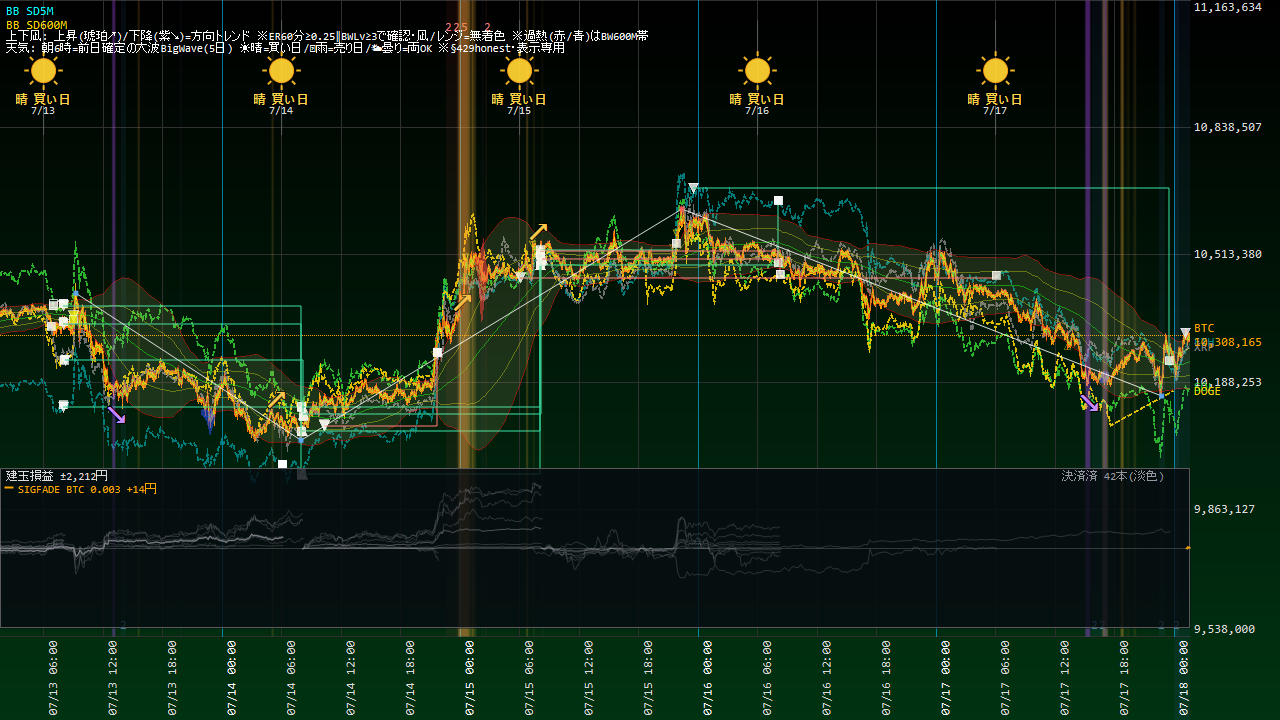
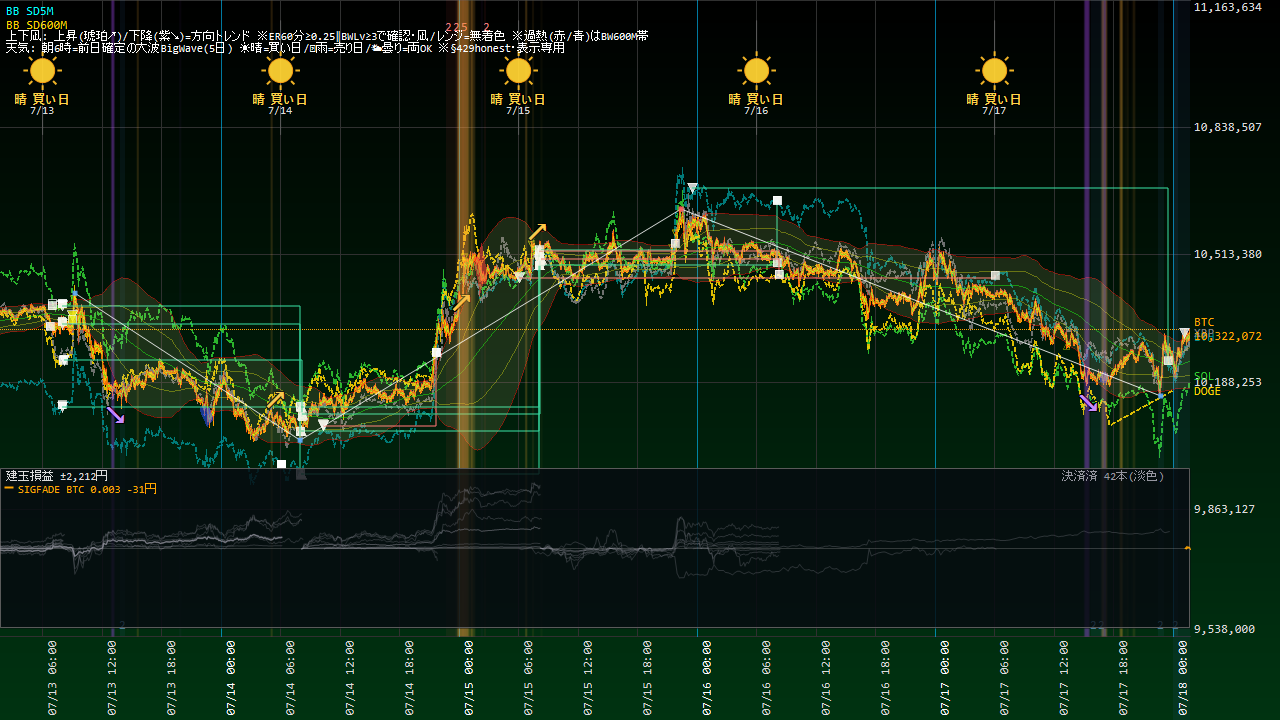
Coin100S 運用状況更新 07-18 01:47

diff --git a/coin100s-795hc4jfv8/index.html b/coin100s-795hc4jfv8/index.html
@@ -14,16 +14,16 @@ a{color:#60a5fa;text-decoration:none} a:hover{text-decoration:underline}
 .meta{color:#94a3b8;font-size:13px}</style>
 <script>setTimeout(function(){location.replace(location.pathname+"?t="+Date.now());},300000);</script></head><body>
 <h1>Coin100S ダッシュボード</h1>
-<p class="meta">スナップショット: 2026-07-18 01:40:40(自動リロード・最新化)</p>
+<p class="meta">スナップショット: 2026-07-18 01:46:40(自動リロード・最新化)</p>
 <div class="cards">
 <div class="card">建玉数<div class="v">1</div></div>
 <div class="card">本日損益<div class="v pos">+475円</div></div>
-<div class="card">評価損益<div class="v pos">+31円</div></div>
+<div class="card">評価損益<div class="v neg">-20円</div></div>
 </div>
 <h2>現在の建玉</h2>
-<table><tr><th>銘柄</th><th>側</th><th>数量</th><th>建値</th><th>含損益</th><th>レッグ</th></tr><tr><td>BTC_JPY</td><td>SELL</td><td>0.003</td><td>@10,312,904</td><td>+35円</td><td>SIGFADE_BTC</td></tr></table>
+<table><tr><th>銘柄</th><th>側</th><th>数量</th><th>建値</th><th>含損益</th><th>レッグ</th></tr><tr><td>BTC_JPY</td><td>SELL</td><td>0.003</td><td>@10,312,904</td><td>-17円</td><td>SIGFADE_BTC</td></tr></table>
 <p><a href="status.html"><b>▶ 運用状況の詳細(チャート・本日の取引・レジーム)</b></a></p>
 <h2>日報一覧</h2>
 <table><tr><th>取引日</th><th>実現損益</th><th>総括</th></tr><tr><td><a href='reports/20260716_Coin100S日報.html'>2026-07-16</a></td><td class="pos">+0円</td><td class='meta'>実取引: 新規0件/決済5件、実現損益 +0円。⚠警告/エラー 7件（要確認）。</td></tr><tr><td><a href='reports/20260715_Coin100S日報.html'>2026-07-15</a></td><td class="pos">+0円</td><td class='meta'>実取引: 新規6件/決済5件、実現損益 +0円。シグナル却下6件（最多: BW10M3_5M／トレンド方向ゲート(N分傾き上と不一致=逆張り方向のfade禁止)）。⚠警告/エラー 7件（要確認）。</td></tr><tr><td><a href='reports/20260714_Coin100S日報.html'>2026-07-14</a></td><td class="pos">+0円</td><td class='meta'>実取引: 新規6件/決済18件、実現損益 +0円。シグナル却下5件（最多: BW10M3_5M／トレンド方向ゲート(N分傾き上と不一致=逆張り方向のfade禁止)）。⚠警告/エラー 9件（要確認）。</td></tr><tr><td><a href='reports/20260713_Coin100S日報.html'>2026-07-13</a></td><td class="pos">+0円</td><td class='meta'>実取引: 新規5件/決済8件、実現損益 +0円。シグナル却下1件（最多: BW10M3_5M／トレンド方向ゲート(N分傾き上と不一致=逆張り方向のfade禁止)）。警告/孤児/エラーなし＝健全。</td></tr><tr><td><a href='reports/20260712_Coin100S日報.html'>2026-07-12</a></td><td class="pos">+0円</td><td class='meta'>実取引: 新規14件/決済6件、実現損益 +0円。シグナル却下5件（最多: BW10M3_5M／トレンド方向ゲート(N分傾き下と不一致=逆張り方向のfade禁止)）。⚠警告/エラー 2件（要確認）。</td></tr><tr><td><a href='reports/20260711_Coin100S日報.html'>2026-07-11</a></td><td class="pos">+0円</td><td class='meta'>実取引: 新規7件/決済6件、実現損益 +0円。⚠警告/エラー 52件（要確認）。</td></tr><tr><td><a href='reports/20260710_Coin100S日報.html'>2026-07-10</a></td><td class="pos">+0円</td><td class='meta'>実取引: 新規7件/決済6件、実現損益 +0円。シグナル却下6件（最多: BW10M3_5M／トレンド方向ゲート(N分傾き上と不一致=逆張り方向のfade禁止)）。警告/孤児/エラーなし＝健全。</td></tr><tr><td><a href='reports/20260709_Coin100S日報.html'>2026-07-09</a></td><td class="pos">+0円</td><td class='meta'>実取引: 新規8件/決済3件、実現損益 +0円。シグナル却下5件（最多: SD120M_5M／トレンド方向ゲート(N分傾き上と不一致=逆張り方向のfade禁止)）。警告/孤児/エラーなし＝健全。</td></tr><tr><td><a href='reports/20260708_Coin100S日報.html'>2026-07-08</a></td><td class="pos">+0円</td><td class='meta'>実取引: 新規2件/決済4件、実現損益 +0円。シグナル却下4件（最多: SD120M_5M／トレンド方向ゲート(N分傾き下と不一致=逆張り方向のfade禁止)）。警告/孤児/エラーなし＝健全。</td></tr><tr><td><a href='reports/20260707_Coin100S日報.html'>2026-07-07</a></td><td class="pos">+0円</td><td class='meta'>実取引: 新規8件/決済6件、実現損益 +0円。シグナル却下4件（最多: SD120M_5M／トレンド方向ゲート(N分傾き上と不一致=逆張り方向のfade禁止)）。⚠警告/エラー 258件（要確認）。</td></tr><tr><td><a href='reports/20260706_Coin100S日報.html'>2026-07-06</a></td><td class="pos">+0円</td><td class='meta'>実取引: 新規9件/決済6件、実現損益 +0円。シグナル却下9件（最多: SD120M_5M／トレンド方向ゲート(N分傾き上と不一致=逆張り方向のfade禁止)）。⚠警告/エラー 150件（要確認）。</td></tr><tr><td><a href='reports/20260705_Coin100S日報.html'>2026-07-05</a></td><td class="pos">+0円</td><td class='meta'>実取引: 新規8件/決済3件、実現損益 +0円。⚠警告/エラー 2件（要確認）。</td></tr><tr><td><a href='reports/20260704_Coin100S日報.html'>2026-07-04</a></td><td class="pos">+0円</td><td class='meta'>実取引: 新規1件/決済2件、実現損益 +0円。⚠警告/エラー 2件（要確認）。</td></tr><tr><td><a href='reports/20260703_Coin100S日報.html'>2026-07-03</a></td><td class="pos">+0円</td><td class='meta'>実取引: 新規5件/決済4件、実現損益 +0円。⚠警告/エラー 15件（要確認）。</td></tr><tr><td><a href='reports/20260702_Coin100S日報.html'>2026-07-02</a></td><td class="pos">+0円</td><td class='meta'>実取引: 新規7件/決済5件、実現損益 +0円。シグナル却下17件（最多: SD120M_5M／トレンド方向ゲート(N分傾き上と不一致=逆張り方向のfade禁止)）。⚠警告/エラー 26件（要確認）。</td></tr><tr><td><a href='reports/20260701_Coin100S日報.html'>2026-07-01</a></td><td class="pos">+0円</td><td class='meta'>実取引: 新規14件/決済8件、実現損益 +0円。シグナル却下14件（最多: SD120M_5M／ボラ軸ゲート(SDN%&amp;gt;N%=高ボラ/荒れレンジ)）。⚠警告/エラー 2件（要確認）。</td></tr><tr><td><a href='reports/20260630_Coin100S日報.html'>2026-06-30</a></td><td class="pos">+0円</td><td class='meta'>実取引: 新規0件/決済1件、実現損益 +0円。シグナル却下29件（最多: 微5M／当日枠N）。警告/孤児/エラーなし＝健全。</td></tr></table>
-<hr><p class="meta">更新: 2026-07-18 01:41:05 / 自動生成: tools/web_publish.py(§580)</p>
+<hr><p class="meta">更新: 2026-07-18 01:47:05 / 自動生成: tools/web_publish.py(§580)</p>
 </body></html>

diff --git a/coin100s-795hc4jfv8/status.html b/coin100s-795hc4jfv8/status.html
@@ -14,22 +14,22 @@ a{color:#60a5fa;text-decoration:none} a:hover{text-decoration:underline}
 .meta{color:#94a3b8;font-size:13px}</style>
 <script>setTimeout(function(){location.replace(location.pathname+"?t="+Date.now());},300000);</script></head><body>
 <h1>Coin100S 運用状況</h1>
-<p class="meta">スナップショット: 2026-07-18 01:40:40 / ページ生成: 2026-07-18 01:41:05(自動リロード・最新化) / <a href="index.html">目次へ</a></p>
+<p class="meta">スナップショット: 2026-07-18 01:46:40 / ページ生成: 2026-07-18 01:47:05(自動リロード・最新化) / <a href="index.html">目次へ</a></p>
 <div class="cards">
 <div class="card">建玉数<div class="v">1</div></div>
 <div class="card">本日損益<div class="v pos">+475円</div></div>
-<div class="card">評価損益<div class="v pos">+31円</div></div>
+<div class="card">評価損益<div class="v neg">-20円</div></div>
 </div>
 <h2>資産推移(直近30日)</h2>
-<img src="status_equity.png?t=0141" alt="equity">
+<img src="status_equity.png?t=0147" alt="equity">
 <h2>取引チャート(直近24h)</h2>
-<img src="status_chart.png?t=0141" alt="chart">
+<img src="status_chart.png?t=0147" alt="chart">
 <h2>建玉一覧</h2>
-<table><tr><th>銘柄</th><th>側</th><th>数量</th><th>建値</th><th>含損益</th><th>レッグ</th></tr><tr><td>BTC_JPY</td><td>SELL</td><td>0.003</td><td>@10,312,904</td><td>+35円</td><td>SIGFADE_BTC</td></tr></table>
+<table><tr><th>銘柄</th><th>側</th><th>数量</th><th>建値</th><th>含損益</th><th>レッグ</th></tr><tr><td>BTC_JPY</td><td>SELL</td><td>0.003</td><td>@10,312,904</td><td>-17円</td><td>SIGFADE_BTC</td></tr></table>
 <h2>実現決済履歴(直近15件・OrderId単位)</h2>
 <table><tr><th>決済時刻</th><th>レッグ</th><th>銘柄</th><th>実現損益</th></tr><tr><td>07-17 23:37</td><td>RELVALP_SL700</td><td>ETH</td><td class="pos">+497円</td></tr><tr><td>07-17 06:08</td><td>RELVALP_SELL</td><td>ETH</td><td class="neg">-22円</td></tr><tr><td>07-16 08:21</td><td>TENKI5D_REV_DOGE</td><td>DOGE</td><td class="neg">-125円</td></tr><tr><td>07-16 08:12</td><td>TENKI5D_REV_ETH</td><td>ETH</td><td class="pos">+740円</td></tr><tr><td>07-16 08:12</td><td>TENKI5D_REV_ETH</td><td>ETH</td><td class="pos">+555円</td></tr><tr><td>07-16 08:12</td><td>TENKI5D_REV_SOL</td><td>SOL</td><td class="neg">-193円</td></tr><tr><td>07-15 21:51</td><td>TENKI5D_REV_BTC</td><td>BTC</td><td class="pos">+94円</td></tr><tr><td>07-15 08:18</td><td>TENKI5D_REV_DOGE</td><td>DOGE</td><td class="pos">+858円</td></tr><tr><td>07-15 08:09</td><td>TENKI5D_REV_ETH</td><td>ETH</td><td class="pos">+601円</td></tr><tr><td>07-15 08:09</td><td>TENKI5D_REV_ETH</td><td>ETH</td><td class="pos">+2,402円</td></tr><tr><td>07-15 08:09</td><td>TENKI5D_REV_SOL</td><td>SOL</td><td class="pos">+1,812円</td></tr><tr><td>07-15 08:09</td><td>TENKI5D_REV_BTC</td><td>BTC</td><td class="pos">+1,850円</td></tr><tr><td>07-14 21:47</td><td>SIGFADE_ETH</td><td>ETH</td><td class="neg">-350円</td></tr><tr><td>07-14 21:47</td><td>SIGFADE_ETH</td><td>ETH</td><td class="neg">-141円</td></tr><tr><td>07-14 08:15</td><td>TENKI5D_REV_DOGE</td><td>DOGE</td><td class="pos">+267円</td></tr></table>
 <!-- §799c 「本取引日の実取引(6:00起点)」テーブルは公開ページから削除(ユーザー指示2026-07-15・数量/指値まで晒す情報漏れ)。建玉/実現損益は許可・実発注の生取引明細は非公開 -->
 <h2>現在レジーム(3軸・§570c)</h2>
-<ul><li>アルト対BTC 5日: <b>-76bps</b>(アルト劣後=RELVAL順風)</li><li>BTC ER240m: <b>0.046</b>(閾値0.25→レンジ(fade順風/BWTRD逆風))</li><li>BTC実現ボラ240m: <b>6.64</b> bps/分</li></ul>
+<ul><li>アルト対BTC 5日: <b>-76bps</b>(アルト劣後=RELVAL順風)</li><li>BTC ER240m: <b>0.048</b>(閾値0.25→レンジ(fade順風/BWTRD逆風))</li><li>BTC実現ボラ240m: <b>6.67</b> bps/分</li></ul>
 <hr><p class="meta">自動生成: tools/web_publish.py(§580・読み取り専用)。売買判断はアプリ本体。</p>
 </body></html>
